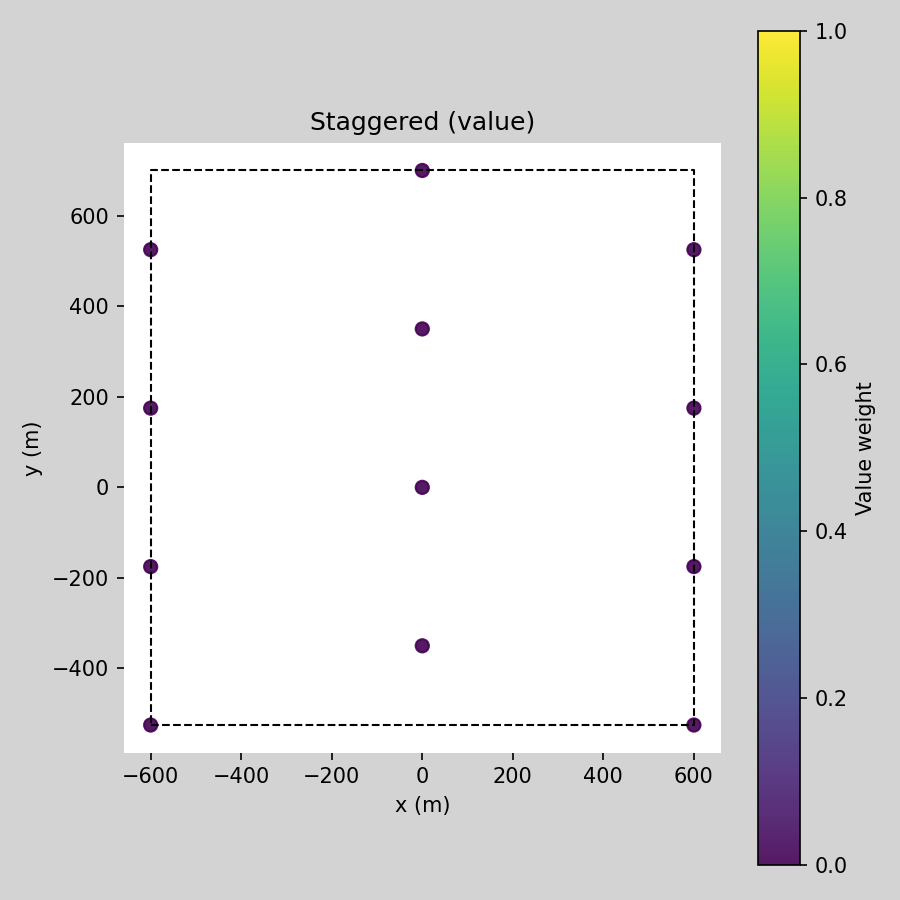
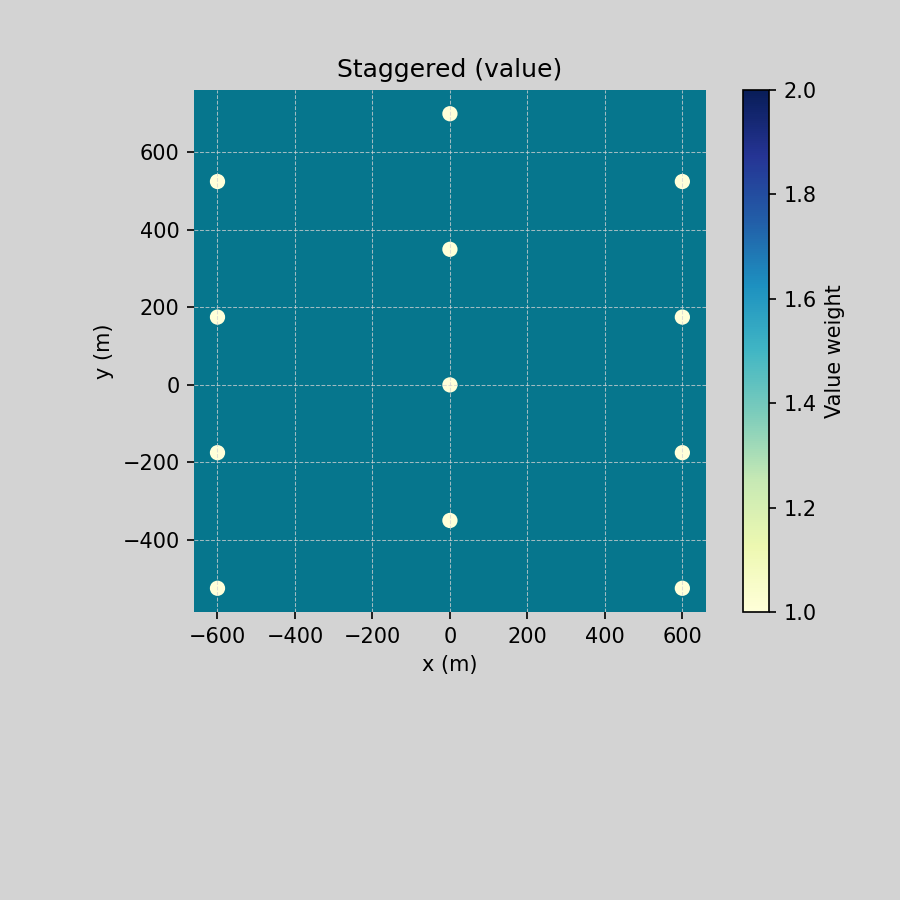
Fixing Visuals (#2)

diff --git a/convoy_sim/viz.py b/convoy_sim/viz.py
@@ -25,10 +25,10 @@ def ship_color(
 
     if color_by == "class":
         class_colors = {
-            ShipClass.FREIGHTER: "#1f77b4",
-            ShipClass.TANKER: "#ff7f0e",
-            ShipClass.ESCORT: "#2ca02c",
-            ShipClass.DECOY: "#d62728",
+            ShipClass.FREIGHTER: "#0a0a0a",
+            ShipClass.TANKER: "#38160d",
+            ShipClass.ESCORT: "#001845",
+            ShipClass.DECOY: "#ffc600",
         }
         return class_colors.get(ship.ship_class, "#7f7f7f")
     plt = _require_matplotlib()
@@ -155,9 +155,10 @@ def plot_convoy_planview(
     show_footprint: bool = True,
     footprint_padding: float = 0.0,
     ship_marker_size: float = 40.0,
-    alpha: float = 0.9,
+    alpha: float = 1.0,
     axes_facecolor: str = "#06768d",
     value_cmap: str = "YlGnBu",
+    grid_color: str = "lightgrey",
 ) -> Any:
     """Plot convoy ship centers in plan view."""
 
@@ -206,15 +207,17 @@ def plot_convoy_planview(
     ax.set_xlabel("x (m)")
     ax.set_ylabel("y (m)")
     ax.set_aspect("equal", adjustable="box")
+    ax.set_anchor("C")
+    ax.grid(True, color=grid_color, linewidth=0.5, alpha=0.75, linestyle='--')
 
     if color_by == "class":
         handles = []
         labels = []
         for ship_class, color in {
-            ShipClass.FREIGHTER: "#1f77b4",
-            ShipClass.TANKER: "#ff7f0e",
-            ShipClass.ESCORT: "#2ca02c",
-            ShipClass.DECOY: "#d62728",
+            ShipClass.FREIGHTER: "#0a0a0a",
+            ShipClass.TANKER: "#38160d",
+            ShipClass.ESCORT: "#001845",
+            ShipClass.DECOY: "#ffc600",
         }.items():
             handles.append(ax.scatter([], [], c=color, s=ship_marker_size))
             labels.append(ship_class.value)
@@ -223,7 +226,7 @@ def plot_convoy_planview(
             labels,
             title="Ship class",
             loc="lower center",
-            bbox_to_anchor=(0.5, -0.18),
+            bbox_to_anchor=(0.5, -0.26),
             ncol=len(labels),
             frameon=False,
         )
@@ -240,8 +243,8 @@ def plot_layout_overlay(
     color_by: Literal["class", "value"] = "class",
     show_footprints: bool = True,
     footprint_padding: float = 0.0,
-    alpha_a: float = 0.6,
-    alpha_b: float = 0.6,
+    alpha_a: float = 1.0,
+    alpha_b: float = 1.0,
 ) -> Any:
     """Overlay two layouts with distinct markers and optional footprints."""
 
@@ -275,6 +278,7 @@ def plot_layout_overlay(
     ax.set_xlabel("x (m)")
     ax.set_ylabel("y (m)")
     ax.set_aspect("equal", adjustable="box")
+    ax.set_anchor("C")
     ax.legend(title="Layout")
     return ax
 
@@ -315,8 +319,8 @@ def save_planview_png(ships: list[Ship], path: str, **plot_kwargs) -> str:
     plot_convoy_planview(ships, ax=ax, **plot_kwargs)
     for spine in plt.gca().spines.values():
         spine.set_visible(False)
-    fig.subplots_adjust(bottom=0.22)
-    fig.tight_layout()
+    fig.tight_layout(rect=(0.0, 0.08, 1.0, 0.92))
+    fig.subplots_adjust(left=0.12, right=0.95, top=0.9, bottom=0.32)
     fig.savefig(path, dpi=150)
     plt.close(fig)
     return path

diff --git a/experiments/plot_layout.py b/experiments/plot_layout.py
@@ -27,6 +27,7 @@ def main() -> None:
         str(out_dir / "rect_class.png"),
         title="Rectangular (class)",
         color_by="class",
+        show_footprint=False,
         show_labels=False,
     )
     save_planview_png(
@@ -34,6 +35,7 @@ def main() -> None:
         str(out_dir / "rect_value.png"),
         title="Rectangular (value)",
         color_by="value",
+        show_footprint=False,
         show_labels=False,
     )
 
@@ -53,6 +55,7 @@ def main() -> None:
         str(out_dir / "staggered_class.png"),
         title="Staggered (class)",
         color_by="class",
+        show_footprint=False,
         show_labels=False,
     )
     save_planview_png(
@@ -60,6 +63,7 @@ def main() -> None:
         str(out_dir / "staggered_value.png"),
         title="Staggered (value)",
         color_by="value",
+        show_footprint=False,
         show_labels=False,
     )
 

diff --git a/docs/Visuals.md b/docs/Visuals.md
@@ -3,7 +3,7 @@ Visuals Guide
 Overview
 This guide lists the available visualization scripts and what they render. All outputs are saved under `results/` and are optional; matplotlib must be installed for plotting functions. ffmpeg needed for MP4 Visuals. 
 
-Plan-View Layouts (E1)
+Plan-View Layouts (E1) 
 - Script: `python -m experiments.plot_layout`
 - Output: `results/figures/*.png`
 - What it shows: plan-view ship centers colored by class or value, with footprint outlines.

diff --git a/NOTES.md b/NOTES.md
@@ -1,0 +1,9 @@
+
+
+Value:
+    -Value weight is used in scoring/optimization: it contributes to total_value_destroyed and objective scoring
+    -Freighter value_weight = 1
+    -Escort value_weight = 
+    -Tanker value_weight = 
+    -Decoy value_weight = 
+    -
